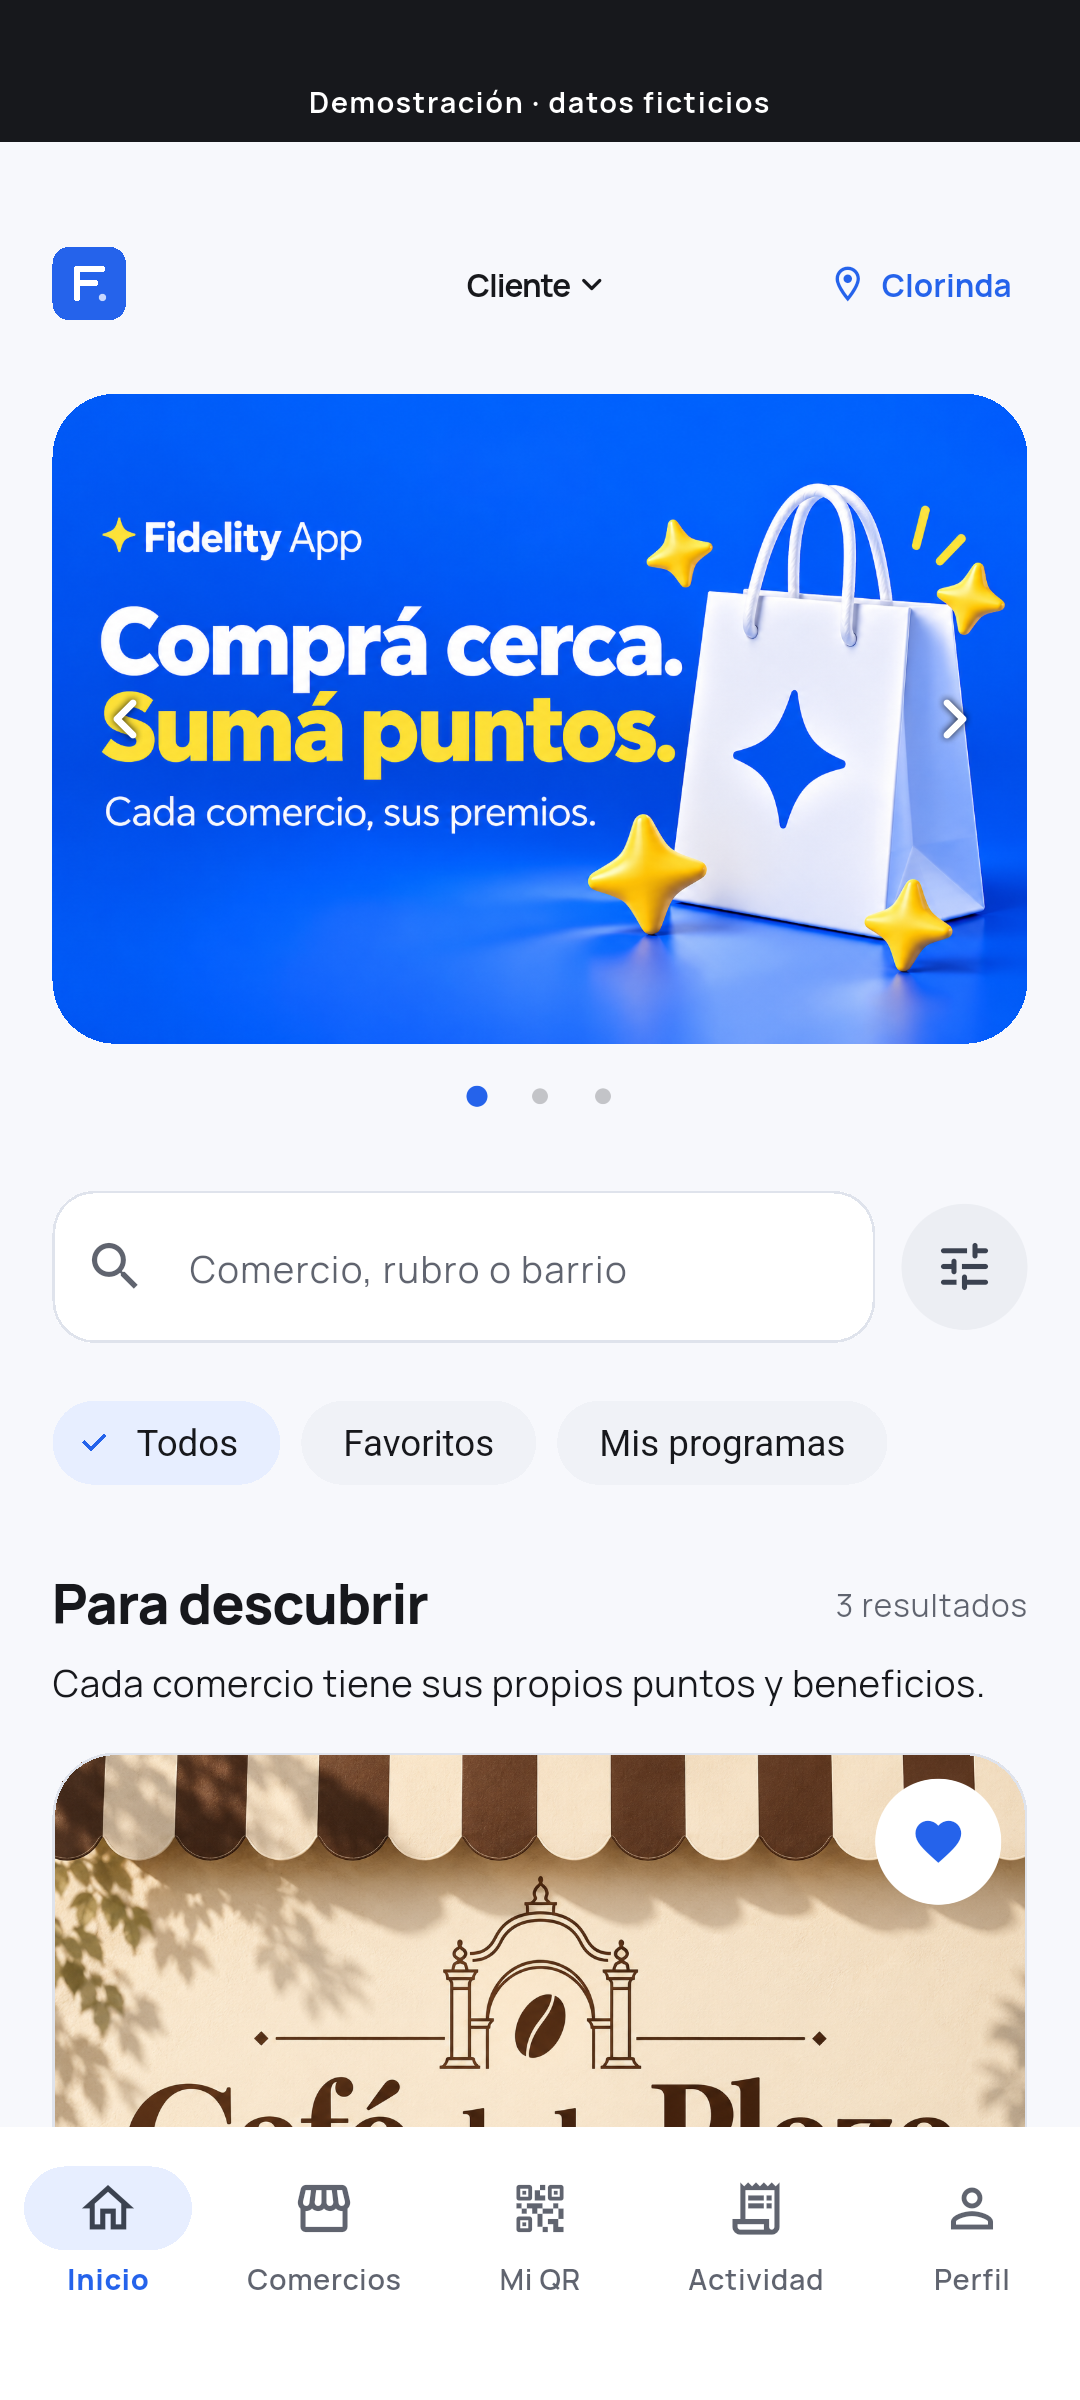
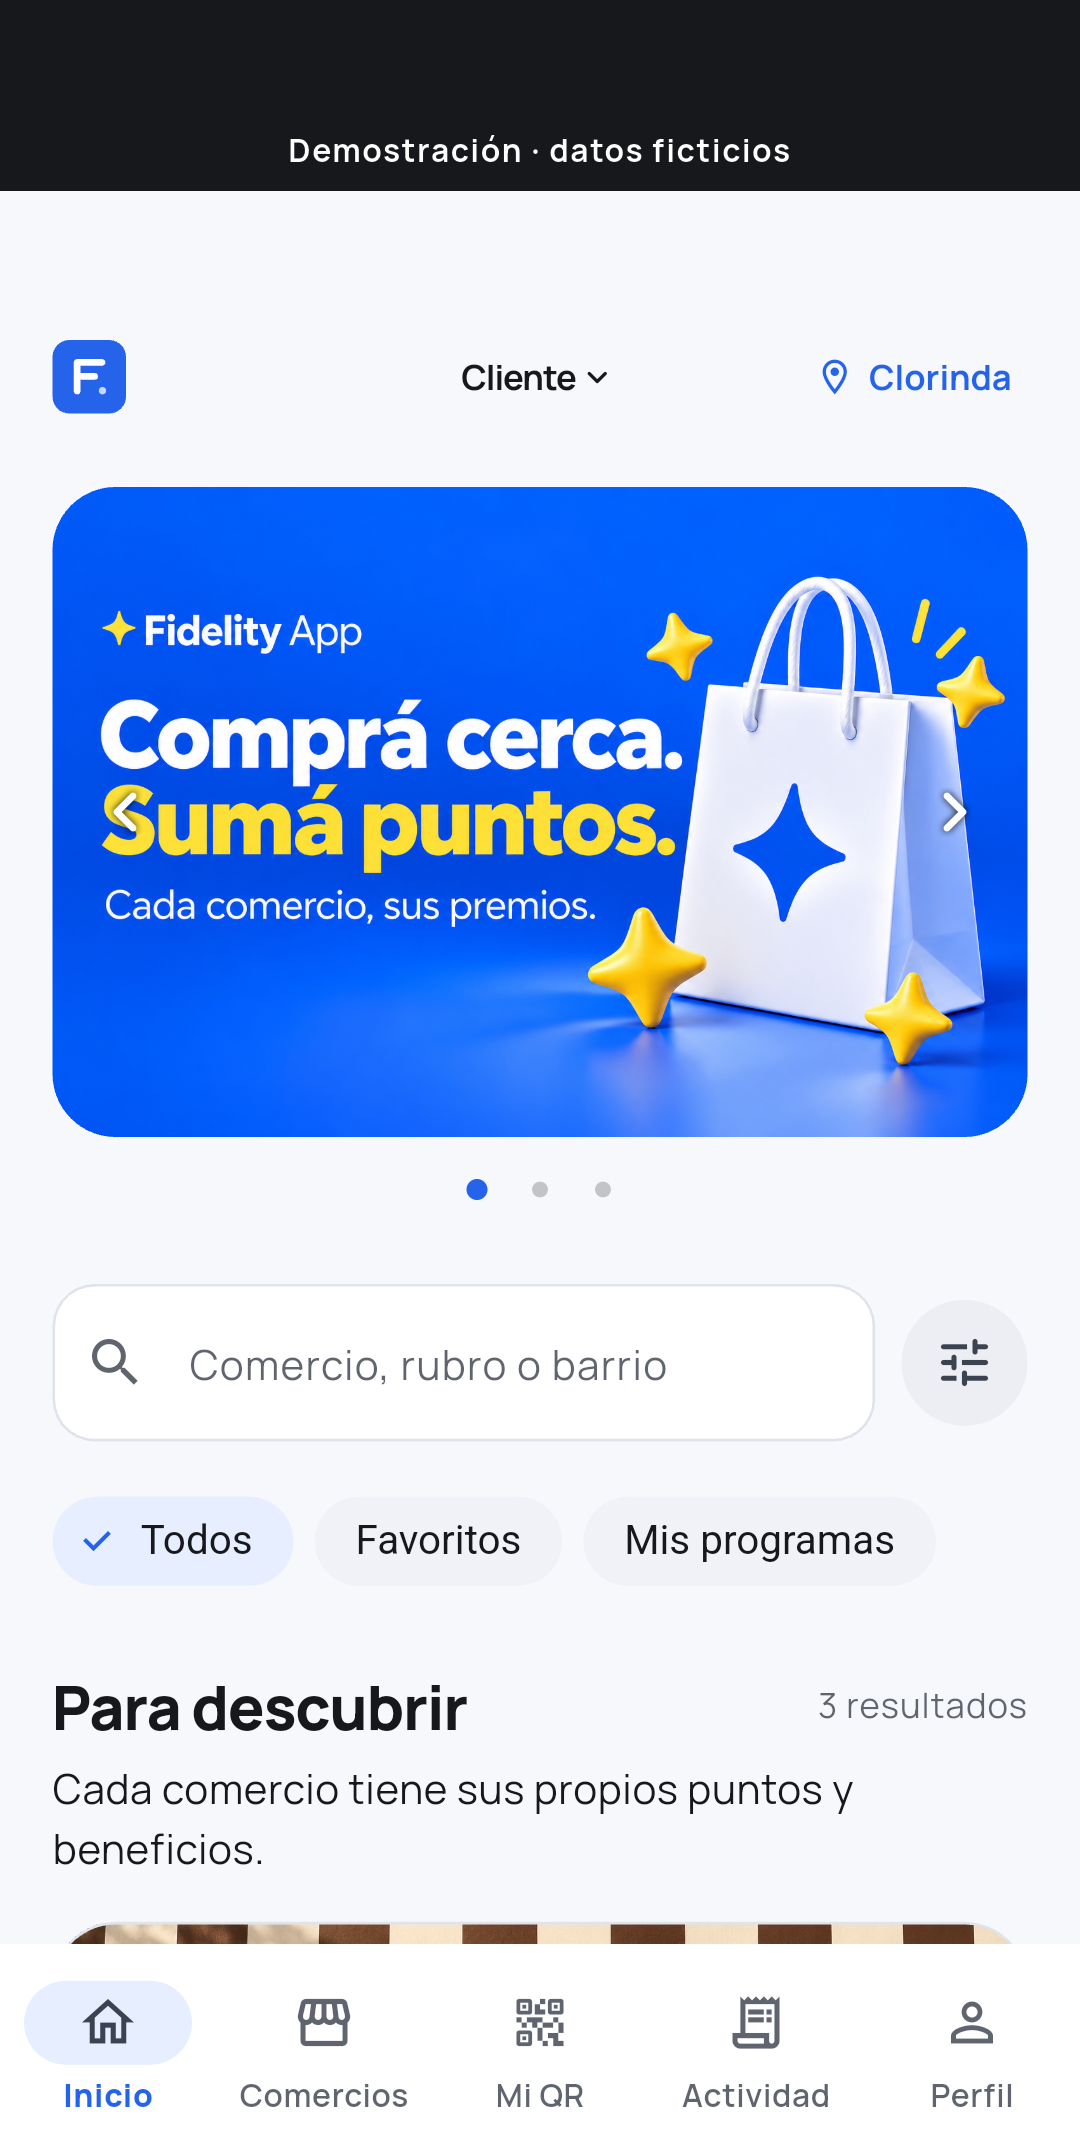
docs: show real 0.6.3 Android captures from Samsung profile verification

diff --git a/README.md b/README.md
@@ -12,7 +12,7 @@ El cliente tiene una sola cuenta y un número de socio fijo. El personal autoriz
 
 ## Un vistazo a la experiencia
 
-Capturas de **Fidelity App 0.6.2+11 · demo Android · 21/10/2026**, ejecutada en emulador. Comercios, personas y promociones ficticios; piloto cerrado. Podés abrir cada imagen para verla completa.
+Capturas de **Fidelity App 0.6.3+12 · demo Android · 21/10/2026**, tomadas con el mecanismo nativo de pruebas en un **Samsung SM-G975F con Android 12**, en modo profile. Muestran los widgets reales con comercios, personas y promociones ficticios; piloto cerrado. Podés abrir cada imagen para verla completa.
 
 <p align="center">
   <a href="assets/home-light.png"><img src="assets/home-light.png" alt="Descubrir: inicio de la demo con promociones y búsqueda de comercios" width="280"></a>
@@ -49,7 +49,9 @@ Se estudiaron guías de Android y Apple, investigación de usabilidad y producto
 
 Hay una demo funcional y un entorno de desarrollo conectado. Favoritos completos, catálogos paginados y un editor administrativo de reglas se comprueban con pruebas locales, servidor y emulador Android. La continuación **0.6.3** agrega recuperación de fotos pendientes y diagnóstico técnico local: se consulta el resultado antes de reenviar, con estados claros y sin continuar automáticamente el trabajo de otra cuenta. No promete transferencias en segundo plano.
 
-Las capturas de arriba siguen mostrando la **demo0.6.2** y no dan acceso al entorno conectado. La preparación para iOS está incluida en el proyecto; la compilación y prueba física en iPhone siguen pendientes. Tampoco se atribuyen resultados de emulador a teléfonos físicos. No se presenta como una aplicación ya publicada en tiendas ni como un piloto abierto a clientes reales.
+En ese teléfono también se comprobaron texto al 200 % y movimiento reducido mediante valores de la plataforma de pruebas, sin cambiar sus preferencias globales. Las muestras de cuadros son diagnósticas: todavía no permiten prometer una tasa de FPS o una mejora frente a otra versión.
+
+Las capturas de arriba pertenecen a la demo y no dan acceso al entorno conectado. La preparación para iOS está incluida en el proyecto; la compilación y prueba física en iPhone siguen pendientes. La evaluación auditiva de accesibilidad también continúa pendiente. No se presenta como una aplicación ya publicada en tiendas ni como un piloto abierto a clientes reales.
 
 ## Sobre este repositorio
 

diff --git a/DESIGN.md b/DESIGN.md
@@ -29,4 +29,4 @@ La investigación incluye discusiones de profesionales, tratadas como opiniones 
 
 ## Lo que se sigue comprobando
 
-La fluidez final necesita medición en teléfonos físicos y builds apropiados. El emulador permite encontrar errores y revisar pantallas; no demuestra por sí solo rendimiento en todos los dispositivos. iPhone y tecnologías de asistencia requieren sus ensayos específicos.
+Se obtuvieron muestras de cuadros en modo profile en un Samsung con Android 12. Son un diagnóstico inicial, con picos registrados; no garantizan una tasa de FPS ni permiten atribuir mejoras sin una comparación válida. Las capturas publicadas muestran ese ensayo físico. Texto ampliado y movimiento reducido se comprobaron con la plataforma de pruebas; iPhone y la evaluación auditiva con tecnologías de asistencia requieren sus ensayos específicos.
